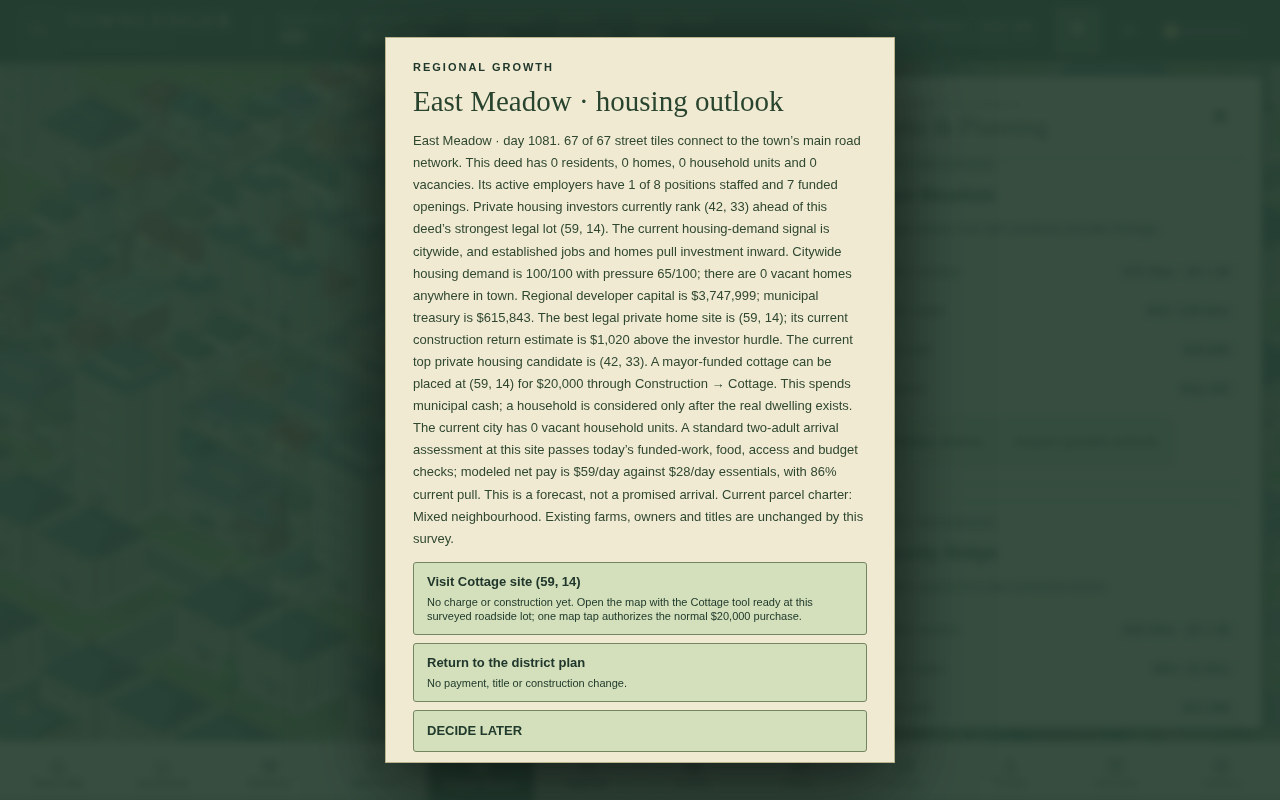
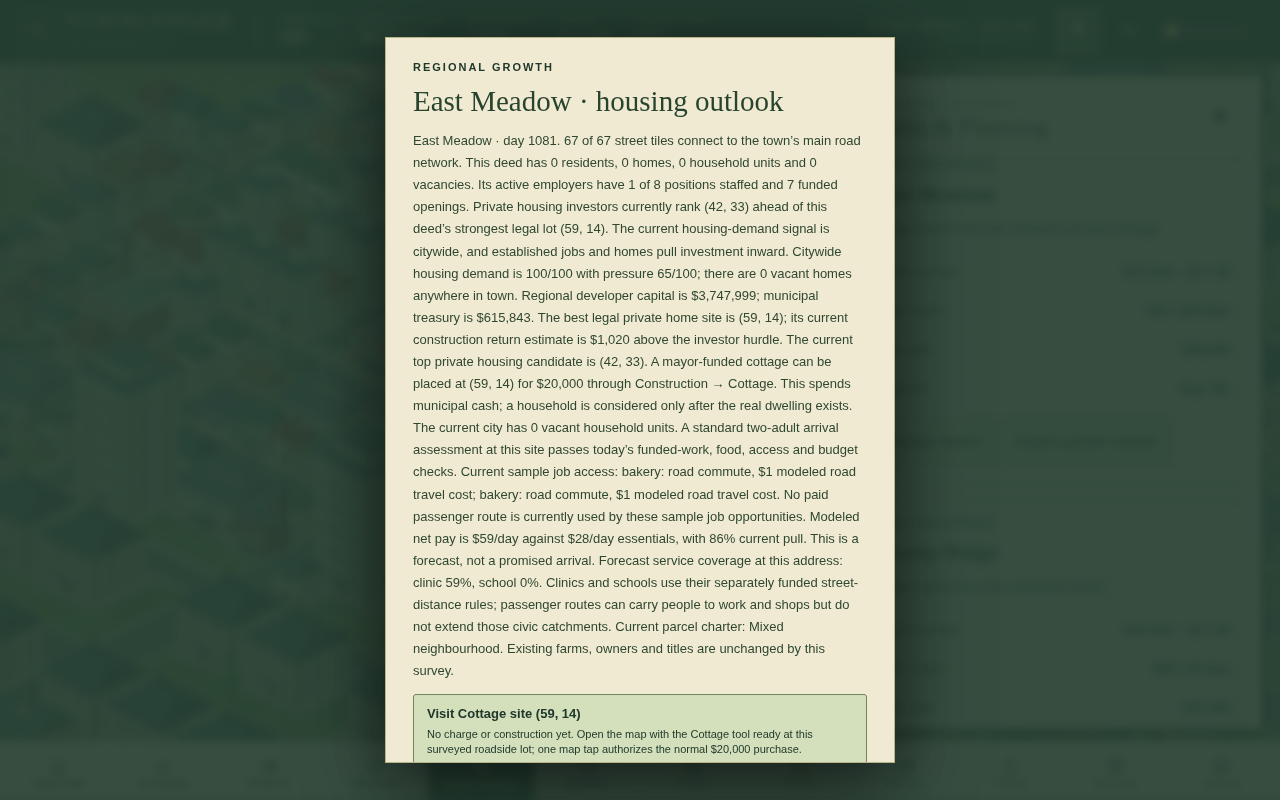
Show real transit and civic access in parcel outlook

Changed region(s): [[0.3125, 0.5625, 0.6875, 0.9688]]

diff --git a/assets/game.js b/assets/game.js
@@ -7447,7 +7447,7 @@ function parcelGrowthOutlook(id){
  if(local){
   const tempId=G.nextId+100000000,port=roadOffsets.map(([dx,dy])=>roadId(local.x+dx,local.y+dy)).find(tile=>net.parts[tile]===net.mainPart);
   if(port!=null){const home={id:tempId,x:local.x,y:local.y,kind:'home',condition:100,value:buildCost.home,owner:-1,firm:-1,hh:-1};net.portals.set(tempId,port);
-   const before=rngState;try{const a=migrationAssessment(home,[{age:32,skill:.8,health:90,life:60},{age:29,skill:.75,health:90,life:60}],2500);arrival={eligible:a.eligible,reasons:a.reasons,offers:a.offers.map(o=>({firm:G.firms[o.firm]?.kind||'employer',distance:o.distance,mode:o.mode})),net:a.expectedNet,essentials:a.essentials,outside:a.outside?.surplus,foodShop:a.foodShop,pull:a.pullProbability,services:a.services};}finally{rngState=before;net.portals.delete(tempId);}
+   const before=rngState;try{const a=migrationAssessment(home,[{age:32,skill:.8,health:90,life:60},{age:29,skill:.75,health:90,life:60}],2500),offers=a.offers.map(o=>{const f=G.firms[o.firm],work=readBuild(f?.building),plain=work&&o.mode==='paid-transit'?transitJourney(home,work,0):null,available=work&&o.mode==='paid-transit'?transitJourney(home,work,1):null,trip=available||plain,routes=(trip?.routes||[]).map(route=>{const r=G.transit?.routes.find(r=>r.id===route);return r?{id:r.id,name:r.name,mode:r.mode,operating:!!r.stats.operating,staff:r.stats.staff.length,required:r.stats.required,capacity:r.stats.capacity,reserved:r.stats.reserved,availableSeats:Math.max(0,r.stats.capacity-r.stats.reserved)}:null;}).filter(Boolean);return {firm:f?.kind||'employer',distance:o.distance,mode:o.mode,fare:available?.fare??o.fare,seatAvailable:!!available,routes};});arrival={eligible:a.eligible,reasons:a.reasons,offers,net:a.expectedNet,essentials:a.essentials,outside:a.outside?.surplus,foodShop:a.foodShop,pull:a.pullProbability,services:a.services};}finally{rngState=before;net.portals.delete(tempId);}
   }
  }
  const globalVacancies=G.buildings.filter(b=>['home','apartment','tower'].includes(b.kind)).reduce((n,b)=>n+migrationHousingStatus(b).available,0),charter=G.districtProgrammes?.[id]?.focus,planReasons=[...blockedPlans.entries()].sort((a,b)=>b[1]-a[1]).slice(0,2);
@@ -7456,8 +7456,10 @@ function parcelGrowthOutlook(id){
 function reviewParcelGrowthOutlook(id){
  const q=parcelGrowthOutlook(id);if(!q)return;const p=ANNEX_PARCELS.find(p=>p.id===id),loc=q.local?`(${q.local.x}, ${q.local.y})`:null,global=q.global?`(${q.global.x}, ${q.global.y})`:null;
  let reason=q.connectedRoads===0?'No street tile in this deed reaches the town road network. Extend a legal street before planning housing.':q.legalSites===0&&q.planReasons.length?`The current permissions block homes here: ${q.planReasons.map(([r])=>r).join(' ')} Change the parcel charter or review its neighbourhood plan first.`:q.legalSites===0?'There is no vacant, road-fronted home site in this deed. Extend streets or review protected land and existing property.':!q.auto?'Private construction is paused by the mayor.':q.local&&q.quote&&q.quote.expected<=0?'The best legal home site currently falls below the private investor’s expected-return hurdle.':q.global&&q.local&&q.global.x!==q.local.x||q.global&&q.local&&q.global.y!==q.local.y?`Private housing investors currently rank ${global} ahead of this deed’s strongest legal lot ${loc}. The current housing-demand signal is citywide, and established jobs and homes pull investment inward.`:'A legal home site is available and currently ranks at the top of the private housing search.';
- const path=q.legalSites?`A mayor-funded cottage can be placed at ${loc} for ${money(buildCost.home)} through Construction → Cottage. This spends municipal cash; a household is considered only after the real dwelling exists. The current city has ${q.globalVacancies} vacant household units. A standard two-adult arrival assessment at this site ${q.arrival?.eligible?'passes today’s funded-work, food, access and budget checks':'is blocked today: '+(q.arrival?.reasons||['no usable road gateway']).join('; ')}${q.arrival?.eligible?`; modeled net pay is ${money(q.arrival.net)}/day against ${money(q.arrival.essentials)}/day essentials, with ${Math.round((q.arrival.pull||0)*100)}% current pull. This is a forecast, not a promised arrival.`:''}`:'No home-placement site is ready yet.';
- const report=`${p.name} · day ${q.day}. ${q.connectedRoads} of ${q.roads} street tiles connect to the town’s main road network. This deed has ${q.residents} residents, ${q.homes} homes, ${q.units} household units and ${q.vacancies} vacancies. Its active employers have ${q.localStaff} of ${q.localJobs} positions staffed and ${q.fundedLocalJobs} funded openings. ${reason} Citywide housing demand is ${q.demand}/100 with pressure ${q.pressure}/100; there are ${q.globalVacancies} vacant homes anywhere in town. Regional developer capital is ${money(q.regionalCapital)}; municipal treasury is ${money(q.treasury)}. ${q.local?`The best legal private home site is ${loc}; its current construction return estimate is ${money(q.quote.expected)} above the investor hurdle. `:''}${q.global?`The current top private housing candidate is ${global}. `:''}${path} ${q.charter?`Current parcel charter: ${DISTRICT_FOCI[q.charter].name}.`:''} Existing farms, owners and titles are unchanged by this survey.`;
+ const routeText=q.arrival?.offers?.length?q.arrival.offers.slice(0,3).map(o=>{const transit=o.mode==='paid-transit',route=transit?`paid ${o.routes.map(r=>`${TRANSIT_MODES[r.mode].name} ${r.name}: ${r.staff}/${r.required} drivers, ${Math.max(0,r.capacity-r.reserved)}/${r.capacity} seats free`).join(' → ')}; ${o.seatAvailable?'one-seat capacity is available now':'no seat is available now'}`:'road commute';return `${o.firm}: ${route}, ${money(o.fare)} ${transit?'passenger fare':'modeled road travel cost'}`}).join('; '):'No currently funded, reachable job offer is available for the sample household.';
+ const hasTransit=q.arrival?.offers?.some(o=>o.mode==='paid-transit'),seatNote=hasTransit?'Displayed transit seats and fares are a live snapshot, not a reservation; actual arrivals rerun capacity and budget checks.':'No paid passenger route is currently used by these sample job opportunities.';
+ const path=q.legalSites?`A mayor-funded cottage can be placed at ${loc} for ${money(buildCost.home)} through Construction → Cottage. This spends municipal cash; a household is considered only after the real dwelling exists. The current city has ${q.globalVacancies} vacant household units. A standard two-adult arrival assessment at this site ${q.arrival?.eligible?'passes today’s funded-work, food, access and budget checks':'is blocked today: '+(q.arrival?.reasons||['no usable road gateway']).join('; ')}. Current sample job access: ${routeText}. ${seatNote} ${q.arrival?.eligible?`Modeled net pay is ${money(q.arrival.net)}/day against ${money(q.arrival.essentials)}/day essentials, with ${Math.round((q.arrival.pull||0)*100)}% current pull. This is a forecast, not a promised arrival.`:''}`:'No home-placement site is ready yet.';
+ const report=`${p.name} · day ${q.day}. ${q.connectedRoads} of ${q.roads} street tiles connect to the town’s main road network. This deed has ${q.residents} residents, ${q.homes} homes, ${q.units} household units and ${q.vacancies} vacancies. Its active employers have ${q.localStaff} of ${q.localJobs} positions staffed and ${q.fundedLocalJobs} funded openings. ${reason} Citywide housing demand is ${q.demand}/100 with pressure ${q.pressure}/100; there are ${q.globalVacancies} vacant homes anywhere in town. Regional developer capital is ${money(q.regionalCapital)}; municipal treasury is ${money(q.treasury)}. ${q.local?`The best legal private home site is ${loc}; its current construction return estimate is ${money(q.quote.expected)} above the investor hurdle. `:''}${q.global?`The current top private housing candidate is ${global}. `:''}${path} Forecast service coverage at this address: clinic ${Math.round((q.arrival?.services?.health||0)*100)}%, school ${Math.round((q.arrival?.services?.school||0)*100)}%. Clinics and schools use their separately funded street-distance rules; passenger routes can carry people to work and shops but do not extend those civic catchments. ${q.charter?`Current parcel charter: ${DISTRICT_FOCI[q.charter].name}.`:''} Existing farms, owners and titles are unchanged by this survey.`;
  showCustomEvent('REGIONAL GROWTH',p.name+' · housing outlook',report,[...(q.legalSites?[{title:`Visit Cottage site ${loc}`,desc:`No charge or construction yet. Open the map with the Cottage tool ready at this surveyed roadside lot; one map tap authorizes the normal ${money(buildCost.home)} purchase.`,apply:()=>{const center=iso(q.local.x,q.local.y);overlay='none';parcelFocus=id;closePanel();cam={x:center[0],y:center[1]+18,zoom:.9};buildMode='home';pointer.hover={x:q.local.x,y:q.local.y};$('placementHint').textContent='COTTAGE · '+loc+' · TAP THE MAP TO REVIEW THE $'+fmt(buildCost.home)+' PURCHASE';$('placementHint').style.display='block';$('hint').textContent='TAP TO BUILD · ESCAPE TO CANCEL';dirty=true;}}]:[]),{title:'Return to the district plan',desc:'No payment, title or construction change.',apply:()=>{}}]);
  $('eventDialog').scrollTop=0;$('eventDialog').querySelector('.paper').scrollTop=0;
 }

diff --git a/src/98zzzzzzzzzzzzzz-parcel-growth-outlook.js b/src/98zzzzzzzzzzzzzz-parcel-growth-outlook.js
@@ -19,7 +19,7 @@ function parcelGrowthOutlook(id){
  if(local){
   const tempId=G.nextId+100000000,port=roadOffsets.map(([dx,dy])=>roadId(local.x+dx,local.y+dy)).find(tile=>net.parts[tile]===net.mainPart);
   if(port!=null){const home={id:tempId,x:local.x,y:local.y,kind:'home',condition:100,value:buildCost.home,owner:-1,firm:-1,hh:-1};net.portals.set(tempId,port);
-   const before=rngState;try{const a=migrationAssessment(home,[{age:32,skill:.8,health:90,life:60},{age:29,skill:.75,health:90,life:60}],2500);arrival={eligible:a.eligible,reasons:a.reasons,offers:a.offers.map(o=>({firm:G.firms[o.firm]?.kind||'employer',distance:o.distance,mode:o.mode})),net:a.expectedNet,essentials:a.essentials,outside:a.outside?.surplus,foodShop:a.foodShop,pull:a.pullProbability,services:a.services};}finally{rngState=before;net.portals.delete(tempId);}
+   const before=rngState;try{const a=migrationAssessment(home,[{age:32,skill:.8,health:90,life:60},{age:29,skill:.75,health:90,life:60}],2500),offers=a.offers.map(o=>{const f=G.firms[o.firm],work=readBuild(f?.building),plain=work&&o.mode==='paid-transit'?transitJourney(home,work,0):null,available=work&&o.mode==='paid-transit'?transitJourney(home,work,1):null,trip=available||plain,routes=(trip?.routes||[]).map(route=>{const r=G.transit?.routes.find(r=>r.id===route);return r?{id:r.id,name:r.name,mode:r.mode,operating:!!r.stats.operating,staff:r.stats.staff.length,required:r.stats.required,capacity:r.stats.capacity,reserved:r.stats.reserved,availableSeats:Math.max(0,r.stats.capacity-r.stats.reserved)}:null;}).filter(Boolean);return {firm:f?.kind||'employer',distance:o.distance,mode:o.mode,fare:available?.fare??o.fare,seatAvailable:!!available,routes};});arrival={eligible:a.eligible,reasons:a.reasons,offers,net:a.expectedNet,essentials:a.essentials,outside:a.outside?.surplus,foodShop:a.foodShop,pull:a.pullProbability,services:a.services};}finally{rngState=before;net.portals.delete(tempId);}
   }
  }
  const globalVacancies=G.buildings.filter(b=>['home','apartment','tower'].includes(b.kind)).reduce((n,b)=>n+migrationHousingStatus(b).available,0),charter=G.districtProgrammes?.[id]?.focus,planReasons=[...blockedPlans.entries()].sort((a,b)=>b[1]-a[1]).slice(0,2);
@@ -28,8 +28,10 @@ function parcelGrowthOutlook(id){
 function reviewParcelGrowthOutlook(id){
  const q=parcelGrowthOutlook(id);if(!q)return;const p=ANNEX_PARCELS.find(p=>p.id===id),loc=q.local?`(${q.local.x}, ${q.local.y})`:null,global=q.global?`(${q.global.x}, ${q.global.y})`:null;
  let reason=q.connectedRoads===0?'No street tile in this deed reaches the town road network. Extend a legal street before planning housing.':q.legalSites===0&&q.planReasons.length?`The current permissions block homes here: ${q.planReasons.map(([r])=>r).join(' ')} Change the parcel charter or review its neighbourhood plan first.`:q.legalSites===0?'There is no vacant, road-fronted home site in this deed. Extend streets or review protected land and existing property.':!q.auto?'Private construction is paused by the mayor.':q.local&&q.quote&&q.quote.expected<=0?'The best legal home site currently falls below the private investor’s expected-return hurdle.':q.global&&q.local&&q.global.x!==q.local.x||q.global&&q.local&&q.global.y!==q.local.y?`Private housing investors currently rank ${global} ahead of this deed’s strongest legal lot ${loc}. The current housing-demand signal is citywide, and established jobs and homes pull investment inward.`:'A legal home site is available and currently ranks at the top of the private housing search.';
- const path=q.legalSites?`A mayor-funded cottage can be placed at ${loc} for ${money(buildCost.home)} through Construction → Cottage. This spends municipal cash; a household is considered only after the real dwelling exists. The current city has ${q.globalVacancies} vacant household units. A standard two-adult arrival assessment at this site ${q.arrival?.eligible?'passes today’s funded-work, food, access and budget checks':'is blocked today: '+(q.arrival?.reasons||['no usable road gateway']).join('; ')}${q.arrival?.eligible?`; modeled net pay is ${money(q.arrival.net)}/day against ${money(q.arrival.essentials)}/day essentials, with ${Math.round((q.arrival.pull||0)*100)}% current pull. This is a forecast, not a promised arrival.`:''}`:'No home-placement site is ready yet.';
- const report=`${p.name} · day ${q.day}. ${q.connectedRoads} of ${q.roads} street tiles connect to the town’s main road network. This deed has ${q.residents} residents, ${q.homes} homes, ${q.units} household units and ${q.vacancies} vacancies. Its active employers have ${q.localStaff} of ${q.localJobs} positions staffed and ${q.fundedLocalJobs} funded openings. ${reason} Citywide housing demand is ${q.demand}/100 with pressure ${q.pressure}/100; there are ${q.globalVacancies} vacant homes anywhere in town. Regional developer capital is ${money(q.regionalCapital)}; municipal treasury is ${money(q.treasury)}. ${q.local?`The best legal private home site is ${loc}; its current construction return estimate is ${money(q.quote.expected)} above the investor hurdle. `:''}${q.global?`The current top private housing candidate is ${global}. `:''}${path} ${q.charter?`Current parcel charter: ${DISTRICT_FOCI[q.charter].name}.`:''} Existing farms, owners and titles are unchanged by this survey.`;
+ const routeText=q.arrival?.offers?.length?q.arrival.offers.slice(0,3).map(o=>{const transit=o.mode==='paid-transit',route=transit?`paid ${o.routes.map(r=>`${TRANSIT_MODES[r.mode].name} ${r.name}: ${r.staff}/${r.required} drivers, ${Math.max(0,r.capacity-r.reserved)}/${r.capacity} seats free`).join(' → ')}; ${o.seatAvailable?'one-seat capacity is available now':'no seat is available now'}`:'road commute';return `${o.firm}: ${route}, ${money(o.fare)} ${transit?'passenger fare':'modeled road travel cost'}`}).join('; '):'No currently funded, reachable job offer is available for the sample household.';
+ const hasTransit=q.arrival?.offers?.some(o=>o.mode==='paid-transit'),seatNote=hasTransit?'Displayed transit seats and fares are a live snapshot, not a reservation; actual arrivals rerun capacity and budget checks.':'No paid passenger route is currently used by these sample job opportunities.';
+ const path=q.legalSites?`A mayor-funded cottage can be placed at ${loc} for ${money(buildCost.home)} through Construction → Cottage. This spends municipal cash; a household is considered only after the real dwelling exists. The current city has ${q.globalVacancies} vacant household units. A standard two-adult arrival assessment at this site ${q.arrival?.eligible?'passes today’s funded-work, food, access and budget checks':'is blocked today: '+(q.arrival?.reasons||['no usable road gateway']).join('; ')}. Current sample job access: ${routeText}. ${seatNote} ${q.arrival?.eligible?`Modeled net pay is ${money(q.arrival.net)}/day against ${money(q.arrival.essentials)}/day essentials, with ${Math.round((q.arrival.pull||0)*100)}% current pull. This is a forecast, not a promised arrival.`:''}`:'No home-placement site is ready yet.';
+ const report=`${p.name} · day ${q.day}. ${q.connectedRoads} of ${q.roads} street tiles connect to the town’s main road network. This deed has ${q.residents} residents, ${q.homes} homes, ${q.units} household units and ${q.vacancies} vacancies. Its active employers have ${q.localStaff} of ${q.localJobs} positions staffed and ${q.fundedLocalJobs} funded openings. ${reason} Citywide housing demand is ${q.demand}/100 with pressure ${q.pressure}/100; there are ${q.globalVacancies} vacant homes anywhere in town. Regional developer capital is ${money(q.regionalCapital)}; municipal treasury is ${money(q.treasury)}. ${q.local?`The best legal private home site is ${loc}; its current construction return estimate is ${money(q.quote.expected)} above the investor hurdle. `:''}${q.global?`The current top private housing candidate is ${global}. `:''}${path} Forecast service coverage at this address: clinic ${Math.round((q.arrival?.services?.health||0)*100)}%, school ${Math.round((q.arrival?.services?.school||0)*100)}%. Clinics and schools use their separately funded street-distance rules; passenger routes can carry people to work and shops but do not extend those civic catchments. ${q.charter?`Current parcel charter: ${DISTRICT_FOCI[q.charter].name}.`:''} Existing farms, owners and titles are unchanged by this survey.`;
  showCustomEvent('REGIONAL GROWTH',p.name+' · housing outlook',report,[...(q.legalSites?[{title:`Visit Cottage site ${loc}`,desc:`No charge or construction yet. Open the map with the Cottage tool ready at this surveyed roadside lot; one map tap authorizes the normal ${money(buildCost.home)} purchase.`,apply:()=>{const center=iso(q.local.x,q.local.y);overlay='none';parcelFocus=id;closePanel();cam={x:center[0],y:center[1]+18,zoom:.9};buildMode='home';pointer.hover={x:q.local.x,y:q.local.y};$('placementHint').textContent='COTTAGE · '+loc+' · TAP THE MAP TO REVIEW THE $'+fmt(buildCost.home)+' PURCHASE';$('placementHint').style.display='block';$('hint').textContent='TAP TO BUILD · ESCAPE TO CANCEL';dirty=true;}}]:[]),{title:'Return to the district plan',desc:'No payment, title or construction change.',apply:()=>{}}]);
  $('eventDialog').scrollTop=0;$('eventDialog').querySelector('.paper').scrollTop=0;
 }

diff --git a/tests/test_parcel_growth_outlook.py b/tests/test_parcel_growth_outlook.py
@@ -37,6 +37,10 @@ with sync_playwright() as pw:
     assert 'best legal private home site is (59, 14)' in text
     assert 'current top private housing candidate is (42, 33)' in text
     assert 'passes today’s funded-work, food, access and budget checks' in text
+    assert 'Current sample job access:' in text and 'modeled road travel cost' in text
+    assert 'No paid passenger route is currently used' in text
+    assert 'Forecast service coverage at this address' in text
+    assert 'do not extend those civic catchments' in text
     assert 'Visit Cottage site (59, 14)' in page.locator('#eventChoices').inner_text()
     evidence = ROOT / 'docs/previews/parcel-growth-outlook'
     evidence.mkdir(parents=True, exist_ok=True)

diff --git a/docs/engineering/PARCEL-GROWTH-OUTLOOK-8.md b/docs/engineering/PARCEL-GROWTH-OUTLOOK-8.md
@@ -14,6 +14,12 @@ The real-control replay followed that path: the player reviewed the outlook, vis
 
 The sample site had no local learning coverage, and the two adults had no school-age learners. Child households still require the normal education and service checks. More distant deeds can also be blocked by an industry charter or agricultural plan; the report names those permission barriers instead of presenting them as weak market demand. Farm titles and production are not changed by the outlook or by building on a separate vacant lot.
 
+## Passenger-service access and civic limits
+
+The sample job review distinguishes a road commute's modeled travel cost from a paid bus/elevated-metro fare. For an offered paid-transit job, it shows the route name and mode, current driver staffing, capacity/reserved seats, and whether at least one seat is available through a capacity-aware journey. This is a point-in-time forecast only; it reserves no seat, and real household arrival repeats the live budget/capacity checks. Clinics and schools remain separate, funded, street-distance catchments. The report shows their forecast coverage and explicitly says that passenger routes do not extend civic coverage. This avoids advertising a transit stop as free health or school access.
+
+The underlying passenger engine was already acceptance-tested through actual bus/elevated-route controls, paid fares, driver payroll, finite seats, a broken elevated alignment, bus detour, 21 repeated district purchases, occupied-home redevelopment by a stop, and exact archive continuation in `tests/test_transit_network.py` and `tests/test_transit_combined_redevelopment.py`. A real seed-42 founding test also purchased East Meadow ($30,606), constructed a road into the new parcel, opened a cottage, then paid $9,000 for a depot and $13,300 for a frequent bus route from that parcel to a live grocer. On day two that route was staffed by four existing residents, operated at 98 peak seats and 38.8-minute headway for $139.63/day, and carried/charged two actual boardings. The new household remained unemployed: there were no funded reachable vacancies, so the route did not invent jobs or promise an arrival. This exposes a realistic boundary of the feature: transit can make a real destination reachable without creating a position or extending civic catchments.
+
 ## Verification
 
 ```
